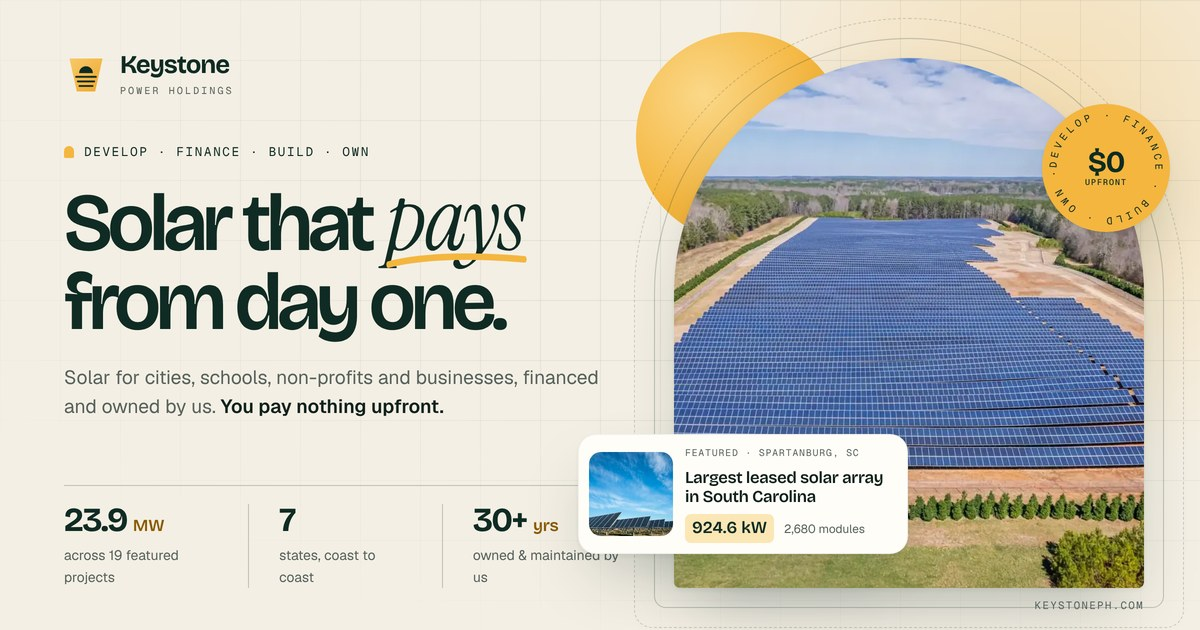
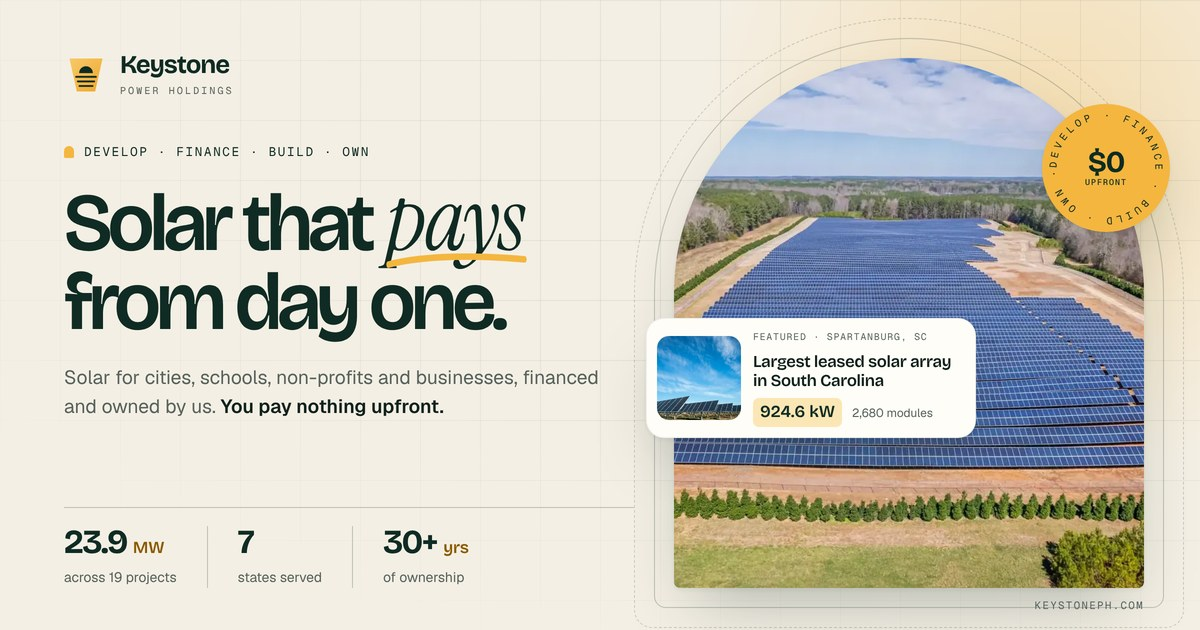
Remove the sun disc from the hero and share card
Claude-Session: https://claude.ai/code/session_01HKk4GqFAs4YoqyzDBR9cqu

diff --git a/index.html b/index.html
@@ -12,8 +12,8 @@
   <meta property="og:title" content="Keystone Power Holdings | Solar that pays from day one, $0 upfront">
   <meta property="og:description" content="Keystone develops, finances, builds and owns medium to large scale solar for municipalities, schools, non-profits, businesses and utilities. You host it, buy the power for less, and pay nothing upfront.">
   <meta property="og:url" content="https://keystoneph.codebunny.net/">
-  <meta property="og:image" content="https://keystoneph.codebunny.net/assets/img/og-card.jpg">
-  <meta property="og:image:secure_url" content="https://keystoneph.codebunny.net/assets/img/og-card.jpg">
+  <meta property="og:image" content="https://keystoneph.codebunny.net/assets/img/og-card.jpg?v=2">
+  <meta property="og:image:secure_url" content="https://keystoneph.codebunny.net/assets/img/og-card.jpg?v=2">
   <meta property="og:image:type" content="image/jpeg">
   <meta property="og:image:width" content="1200">
   <meta property="og:image:height" content="630">
@@ -22,7 +22,7 @@
   <meta name="twitter:card" content="summary_large_image">
   <meta name="twitter:title" content="Keystone Power Holdings | Solar that pays from day one, $0 upfront">
   <meta name="twitter:description" content="Keystone develops, finances, builds and owns medium to large scale solar for municipalities, schools, non-profits, businesses and utilities. You host it, buy the power for less, and pay nothing upfront.">
-  <meta name="twitter:image" content="https://keystoneph.codebunny.net/assets/img/og-card.jpg">
+  <meta name="twitter:image" content="https://keystoneph.codebunny.net/assets/img/og-card.jpg?v=2">
   <link rel="icon" href="assets/img/favicon.svg" type="image/svg+xml">
   <link rel="preload" href="assets/fonts/bricolage.woff2" as="font" type="font/woff2" crossorigin>
   <link rel="preload" href="assets/fonts/geist.woff2" as="font" type="font/woff2" crossorigin>
@@ -161,7 +161,6 @@
         </div>
 
         <div class="hero__visual">
-          <span class="hero__sun" aria-hidden="true"></span>
           <span class="hero__rings" aria-hidden="true"><i></i><i></i><i></i></span>
           <figure class="arch hero__arch" data-hero-img>
             <img src="assets/img/utility-aerial.webp" alt="Aerial view of a utility-scale solar farm" width="1800" height="1200" fetchpriority="high" data-parallax srcset="assets/img/utility-aerial-480.webp 480w, assets/img/utility-aerial-960.webp 960w, assets/img/utility-aerial-1440.webp 1440w, assets/img/utility-aerial.webp 1800w" sizes="(max-width: 760px) 92vw, 48vw" decoding="async">

diff --git a/about.html b/about.html
@@ -12,8 +12,8 @@
   <meta property="og:title" content="About & Founders | Keystone Power Holdings">
   <meta property="og:description" content="Keystone Power Holdings is a solar developer, financier and owner led by co-founders Anthony Fotopoulos (former CEO, Conergy Americas) and William DePhillipo (50+ MW of distributed generation). Offices in Paoli PA, St. Charles IL and Richmond VA.">
   <meta property="og:url" content="https://keystoneph.codebunny.net/about.html">
-  <meta property="og:image" content="https://keystoneph.codebunny.net/assets/img/og-card.jpg">
-  <meta property="og:image:secure_url" content="https://keystoneph.codebunny.net/assets/img/og-card.jpg">
+  <meta property="og:image" content="https://keystoneph.codebunny.net/assets/img/og-card.jpg?v=2">
+  <meta property="og:image:secure_url" content="https://keystoneph.codebunny.net/assets/img/og-card.jpg?v=2">
   <meta property="og:image:type" content="image/jpeg">
   <meta property="og:image:width" content="1200">
   <meta property="og:image:height" content="630">
@@ -22,7 +22,7 @@
   <meta name="twitter:card" content="summary_large_image">
   <meta name="twitter:title" content="About & Founders | Keystone Power Holdings">
   <meta name="twitter:description" content="Keystone Power Holdings is a solar developer, financier and owner led by co-founders Anthony Fotopoulos (former CEO, Conergy Americas) and William DePhillipo (50+ MW of distributed generation). Offices in Paoli PA, St. Charles IL and Richmond VA.">
-  <meta name="twitter:image" content="https://keystoneph.codebunny.net/assets/img/og-card.jpg">
+  <meta name="twitter:image" content="https://keystoneph.codebunny.net/assets/img/og-card.jpg?v=2">
   <link rel="icon" href="assets/img/favicon.svg" type="image/svg+xml">
   <link rel="preload" href="assets/fonts/bricolage.woff2" as="font" type="font/woff2" crossorigin>
   <link rel="preload" href="assets/fonts/geist.woff2" as="font" type="font/woff2" crossorigin>

diff --git a/solutions.html b/solutions.html
@@ -12,8 +12,8 @@
   <meta property="og:title" content="Solutions | Solar PPAs & leases with $0 upfront | Keystone Power Holdings">
   <meta property="og:description" content="Solar power purchase agreements, operating leases and service agreements for municipalities, water authorities, schools, universities, non-profits and businesses. No capital, lower bills, 20 to 30+ year terms.">
   <meta property="og:url" content="https://keystoneph.codebunny.net/solutions.html">
-  <meta property="og:image" content="https://keystoneph.codebunny.net/assets/img/og-card.jpg">
-  <meta property="og:image:secure_url" content="https://keystoneph.codebunny.net/assets/img/og-card.jpg">
+  <meta property="og:image" content="https://keystoneph.codebunny.net/assets/img/og-card.jpg?v=2">
+  <meta property="og:image:secure_url" content="https://keystoneph.codebunny.net/assets/img/og-card.jpg?v=2">
   <meta property="og:image:type" content="image/jpeg">
   <meta property="og:image:width" content="1200">
   <meta property="og:image:height" content="630">
@@ -22,7 +22,7 @@
   <meta name="twitter:card" content="summary_large_image">
   <meta name="twitter:title" content="Solutions | Solar PPAs & leases with $0 upfront | Keystone Power Holdings">
   <meta name="twitter:description" content="Solar power purchase agreements, operating leases and service agreements for municipalities, water authorities, schools, universities, non-profits and businesses. No capital, lower bills, 20 to 30+ year terms.">
-  <meta name="twitter:image" content="https://keystoneph.codebunny.net/assets/img/og-card.jpg">
+  <meta name="twitter:image" content="https://keystoneph.codebunny.net/assets/img/og-card.jpg?v=2">
   <link rel="icon" href="assets/img/favicon.svg" type="image/svg+xml">
   <link rel="preload" href="assets/fonts/bricolage.woff2" as="font" type="font/woff2" crossorigin>
   <link rel="preload" href="assets/fonts/geist.woff2" as="font" type="font/woff2" crossorigin>

diff --git a/utility-scale.html b/utility-scale.html
@@ -12,8 +12,8 @@
   <meta property="og:title" content="Utility-scale solar for utilities & landowners | Keystone Power Holdings">
   <meta property="og:description" content="Keystone partners with utilities and public and private landowners to build custom utility-scale solar facilities that deliver cost-assured energy or revenue for 30+ years. Check if your land is a fit.">
   <meta property="og:url" content="https://keystoneph.codebunny.net/utility-scale.html">
-  <meta property="og:image" content="https://keystoneph.codebunny.net/assets/img/og-card.jpg">
-  <meta property="og:image:secure_url" content="https://keystoneph.codebunny.net/assets/img/og-card.jpg">
+  <meta property="og:image" content="https://keystoneph.codebunny.net/assets/img/og-card.jpg?v=2">
+  <meta property="og:image:secure_url" content="https://keystoneph.codebunny.net/assets/img/og-card.jpg?v=2">
   <meta property="og:image:type" content="image/jpeg">
   <meta property="og:image:width" content="1200">
   <meta property="og:image:height" content="630">
@@ -22,7 +22,7 @@
   <meta name="twitter:card" content="summary_large_image">
   <meta name="twitter:title" content="Utility-scale solar for utilities & landowners | Keystone Power Holdings">
   <meta name="twitter:description" content="Keystone partners with utilities and public and private landowners to build custom utility-scale solar facilities that deliver cost-assured energy or revenue for 30+ years. Check if your land is a fit.">
-  <meta name="twitter:image" content="https://keystoneph.codebunny.net/assets/img/og-card.jpg">
+  <meta name="twitter:image" content="https://keystoneph.codebunny.net/assets/img/og-card.jpg?v=2">
   <link rel="icon" href="assets/img/favicon.svg" type="image/svg+xml">
   <link rel="preload" href="assets/fonts/bricolage.woff2" as="font" type="font/woff2" crossorigin>
   <link rel="preload" href="assets/fonts/geist.woff2" as="font" type="font/woff2" crossorigin>

diff --git a/projects.html b/projects.html
@@ -12,8 +12,8 @@
   <meta property="og:title" content="Projects | 19 solar projects, 23.9 MW across 7 states | Keystone Power Holdings">
   <meta property="og:description" content="Explore Keystone's featured solar portfolio: colleges, school districts, wastewater plants, non-profits, a national retailer and manufacturers across seven states, plus detailed case studies.">
   <meta property="og:url" content="https://keystoneph.codebunny.net/projects.html">
-  <meta property="og:image" content="https://keystoneph.codebunny.net/assets/img/og-card.jpg">
-  <meta property="og:image:secure_url" content="https://keystoneph.codebunny.net/assets/img/og-card.jpg">
+  <meta property="og:image" content="https://keystoneph.codebunny.net/assets/img/og-card.jpg?v=2">
+  <meta property="og:image:secure_url" content="https://keystoneph.codebunny.net/assets/img/og-card.jpg?v=2">
   <meta property="og:image:type" content="image/jpeg">
   <meta property="og:image:width" content="1200">
   <meta property="og:image:height" content="630">
@@ -22,7 +22,7 @@
   <meta name="twitter:card" content="summary_large_image">
   <meta name="twitter:title" content="Projects | 19 solar projects, 23.9 MW across 7 states | Keystone Power Holdings">
   <meta name="twitter:description" content="Explore Keystone's featured solar portfolio: colleges, school districts, wastewater plants, non-profits, a national retailer and manufacturers across seven states, plus detailed case studies.">
-  <meta name="twitter:image" content="https://keystoneph.codebunny.net/assets/img/og-card.jpg">
+  <meta name="twitter:image" content="https://keystoneph.codebunny.net/assets/img/og-card.jpg?v=2">
   <link rel="icon" href="assets/img/favicon.svg" type="image/svg+xml">
   <link rel="preload" href="assets/fonts/bricolage.woff2" as="font" type="font/woff2" crossorigin>
   <link rel="preload" href="assets/fonts/geist.woff2" as="font" type="font/woff2" crossorigin>

diff --git a/contact.html b/contact.html
@@ -12,8 +12,8 @@
   <meta property="og:title" content="Start a project | Free solar feasibility review | Keystone Power Holdings">
   <meta property="og:description" content="Tell us about your organization and site in four short steps. Your enquiry goes straight to the right Keystone regional office for a free, no-obligation feasibility review.">
   <meta property="og:url" content="https://keystoneph.codebunny.net/contact.html">
-  <meta property="og:image" content="https://keystoneph.codebunny.net/assets/img/og-card.jpg">
-  <meta property="og:image:secure_url" content="https://keystoneph.codebunny.net/assets/img/og-card.jpg">
+  <meta property="og:image" content="https://keystoneph.codebunny.net/assets/img/og-card.jpg?v=2">
+  <meta property="og:image:secure_url" content="https://keystoneph.codebunny.net/assets/img/og-card.jpg?v=2">
   <meta property="og:image:type" content="image/jpeg">
   <meta property="og:image:width" content="1200">
   <meta property="og:image:height" content="630">
@@ -22,7 +22,7 @@
   <meta name="twitter:card" content="summary_large_image">
   <meta name="twitter:title" content="Start a project | Free solar feasibility review | Keystone Power Holdings">
   <meta name="twitter:description" content="Tell us about your organization and site in four short steps. Your enquiry goes straight to the right Keystone regional office for a free, no-obligation feasibility review.">
-  <meta name="twitter:image" content="https://keystoneph.codebunny.net/assets/img/og-card.jpg">
+  <meta name="twitter:image" content="https://keystoneph.codebunny.net/assets/img/og-card.jpg?v=2">
   <link rel="icon" href="assets/img/favicon.svg" type="image/svg+xml">
   <link rel="preload" href="assets/fonts/bricolage.woff2" as="font" type="font/woff2" crossorigin>
   <link rel="preload" href="assets/fonts/geist.woff2" as="font" type="font/woff2" crossorigin>

diff --git a/news.html b/news.html
@@ -12,8 +12,8 @@
   <meta property="og:title" content="News | Keystone Power Holdings">
   <meta property="og:description" content="Press announcements from Keystone Power Holdings: Illinois education and wastewater projects, expansion into Virginia, Maryland and Maine, flexible non-profit financing, and our tax-equity fund.">
   <meta property="og:url" content="https://keystoneph.codebunny.net/news.html">
-  <meta property="og:image" content="https://keystoneph.codebunny.net/assets/img/og-card.jpg">
-  <meta property="og:image:secure_url" content="https://keystoneph.codebunny.net/assets/img/og-card.jpg">
+  <meta property="og:image" content="https://keystoneph.codebunny.net/assets/img/og-card.jpg?v=2">
+  <meta property="og:image:secure_url" content="https://keystoneph.codebunny.net/assets/img/og-card.jpg?v=2">
   <meta property="og:image:type" content="image/jpeg">
   <meta property="og:image:width" content="1200">
   <meta property="og:image:height" content="630">
@@ -22,7 +22,7 @@
   <meta name="twitter:card" content="summary_large_image">
   <meta name="twitter:title" content="News | Keystone Power Holdings">
   <meta name="twitter:description" content="Press announcements from Keystone Power Holdings: Illinois education and wastewater projects, expansion into Virginia, Maryland and Maine, flexible non-profit financing, and our tax-equity fund.">
-  <meta name="twitter:image" content="https://keystoneph.codebunny.net/assets/img/og-card.jpg">
+  <meta name="twitter:image" content="https://keystoneph.codebunny.net/assets/img/og-card.jpg?v=2">
   <link rel="icon" href="assets/img/favicon.svg" type="image/svg+xml">
   <link rel="preload" href="assets/fonts/bricolage.woff2" as="font" type="font/woff2" crossorigin>
   <link rel="preload" href="assets/fonts/geist.woff2" as="font" type="font/woff2" crossorigin>

diff --git a/404.html b/404.html
@@ -12,8 +12,8 @@
   <meta property="og:title" content="Page not found | Keystone Power Holdings">
   <meta property="og:description" content="The page you're looking for has moved or no longer exists.">
   <meta property="og:url" content="https://keystoneph.codebunny.net/404.html">
-  <meta property="og:image" content="https://keystoneph.codebunny.net/assets/img/og-card.jpg">
-  <meta property="og:image:secure_url" content="https://keystoneph.codebunny.net/assets/img/og-card.jpg">
+  <meta property="og:image" content="https://keystoneph.codebunny.net/assets/img/og-card.jpg?v=2">
+  <meta property="og:image:secure_url" content="https://keystoneph.codebunny.net/assets/img/og-card.jpg?v=2">
   <meta property="og:image:type" content="image/jpeg">
   <meta property="og:image:width" content="1200">
   <meta property="og:image:height" content="630">
@@ -22,7 +22,7 @@
   <meta name="twitter:card" content="summary_large_image">
   <meta name="twitter:title" content="Page not found | Keystone Power Holdings">
   <meta name="twitter:description" content="The page you're looking for has moved or no longer exists.">
-  <meta name="twitter:image" content="https://keystoneph.codebunny.net/assets/img/og-card.jpg">
+  <meta name="twitter:image" content="https://keystoneph.codebunny.net/assets/img/og-card.jpg?v=2">
   <link rel="icon" href="assets/img/favicon.svg" type="image/svg+xml">
   <link rel="preload" href="assets/fonts/bricolage.woff2" as="font" type="font/woff2" crossorigin>
   <link rel="preload" href="assets/fonts/geist.woff2" as="font" type="font/woff2" crossorigin>

diff --git a/assets/css/main.css b/assets/css/main.css
@@ -292,7 +292,6 @@ html.menu-open { overflow: hidden; }
 .hero__dots svg { width: 16px; height: 16px; }
 .hero__visual { position: relative; padding: 0 0 0 40px; }
 .hero__glow { position: absolute; width: 760px; height: 760px; right: -220px; top: -160px; border-radius: 50%; background: radial-gradient(closest-side, rgba(244, 182, 63, .22), transparent); pointer-events: none; }
-.hero__sun { position: absolute; z-index: 0; left: -2%; top: -7%; width: 44%; aspect-ratio: 1; border-radius: 50%; background: radial-gradient(circle at 32% 30%, #fbd889, var(--sun) 55%, #e9a42b); }
 .hero__rings { position: absolute; inset: 0 0 0 40px; z-index: 0; pointer-events: none; }
 .hero__rings i { position: absolute; inset: calc(var(--k) * -26px); border: 1px solid var(--line-2); border-radius: 999px 999px calc(28px + var(--k) * 26px) calc(28px + var(--k) * 26px); }
 .hero__rings i:nth-child(1) { --k: 1; }
@@ -1155,7 +1154,7 @@ html:not(.js) [data-reveal], html:not(.js) [data-hero-in] { opacity: 1; transfor
 
 @media (max-width: 760px) {
   .hero__rings, .hero__inset, .hero__coords { display: none; }
-  .hero__sun { width: 38%; left: -4%; top: -5%; }
+
   .manifesto__text { text-indent: 0; }
   .manifesto__foot { grid-template-columns: 1fr; }
   .expand__stage { border-radius: 24px; }

diff --git a/_src/pages/index.html b/_src/pages/index.html
@@ -23,7 +23,6 @@
         </div>
 
         <div class="hero__visual">
-          <span class="hero__sun" aria-hidden="true"></span>
           <span class="hero__rings" aria-hidden="true"><i></i><i></i><i></i></span>
           <figure class="arch hero__arch" data-hero-img>
             <img src="assets/img/utility-aerial.webp" alt="Aerial view of a utility-scale solar farm" width="1800" height="1200" fetchpriority="high" data-parallax>

diff --git a/_src/build.py b/_src/build.py
@@ -126,7 +126,7 @@ def build():
         body = raw[m.end():] if m else raw
         meta.setdefault("slug", page.name)
         meta["canonical"] = SITE_URL + "/" + ("" if page.name == "index.html" else page.name)
-        meta.setdefault("og_image", "assets/img/og-card.jpg")
+        meta.setdefault("og_image", "assets/img/og-card.jpg?v=2")
         meta["site_url"] = SITE_URL
         meta.setdefault("htmlclass", "")
         html = render(layout, meta)
